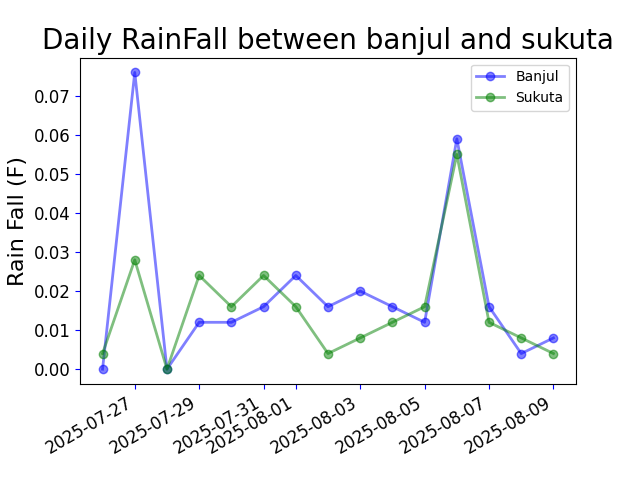
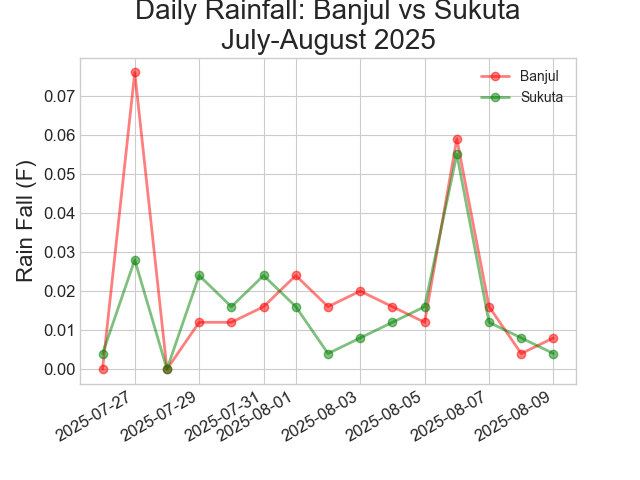
updated banjul vs sukuta rainfall data

diff --git a/banjul_sukuta_rainfall.py b/banjul_sukuta_rainfall.py
@@ -44,11 +44,11 @@ with open(sukuta_filename) as sf:
             s_dates.append(s_current_date)
             s_rainfalls.append(s_rain)
 
-    plt.style.use('fivethirtyeight')
+    plt.style.use('seaborn-v0_8-whitegrid')
     fig, ax = plt.subplots()
     fig.autofmt_xdate()
     # Plot bajul data
-    ax.plot(b_dates, b_rainfalls, c='blue', label="Banjul",
+    ax.plot(b_dates, b_rainfalls, c='red', label="Banjul",
             alpha=0.5, marker='o', linewidth=2)
 
     # Plot sukuta data
@@ -58,10 +58,10 @@ with open(sukuta_filename) as sf:
     ax.legend()
     ax.set_ylim()
 
-    plt.title("Daily RainFall between banjul and sukuta\nJuly-August 2025", fontsize=20)
+    plt.title("Daily Rainfall: Banjul vs Sukuta\nJuly-August 2025", fontsize=20)
     plt.xlabel('', fontsize=16)
     plt.ylabel("Rain Fall (F)", fontsize=16)
     plt.tick_params(axis='both',  which='major', labelsize=12, color='blue')
 
-    plt.savefig('images/banjul_sukuta_rainfall_new.png')
+    plt.savefig('images/banjul_sukuta_rainfall_light.png')
     plt.show()
